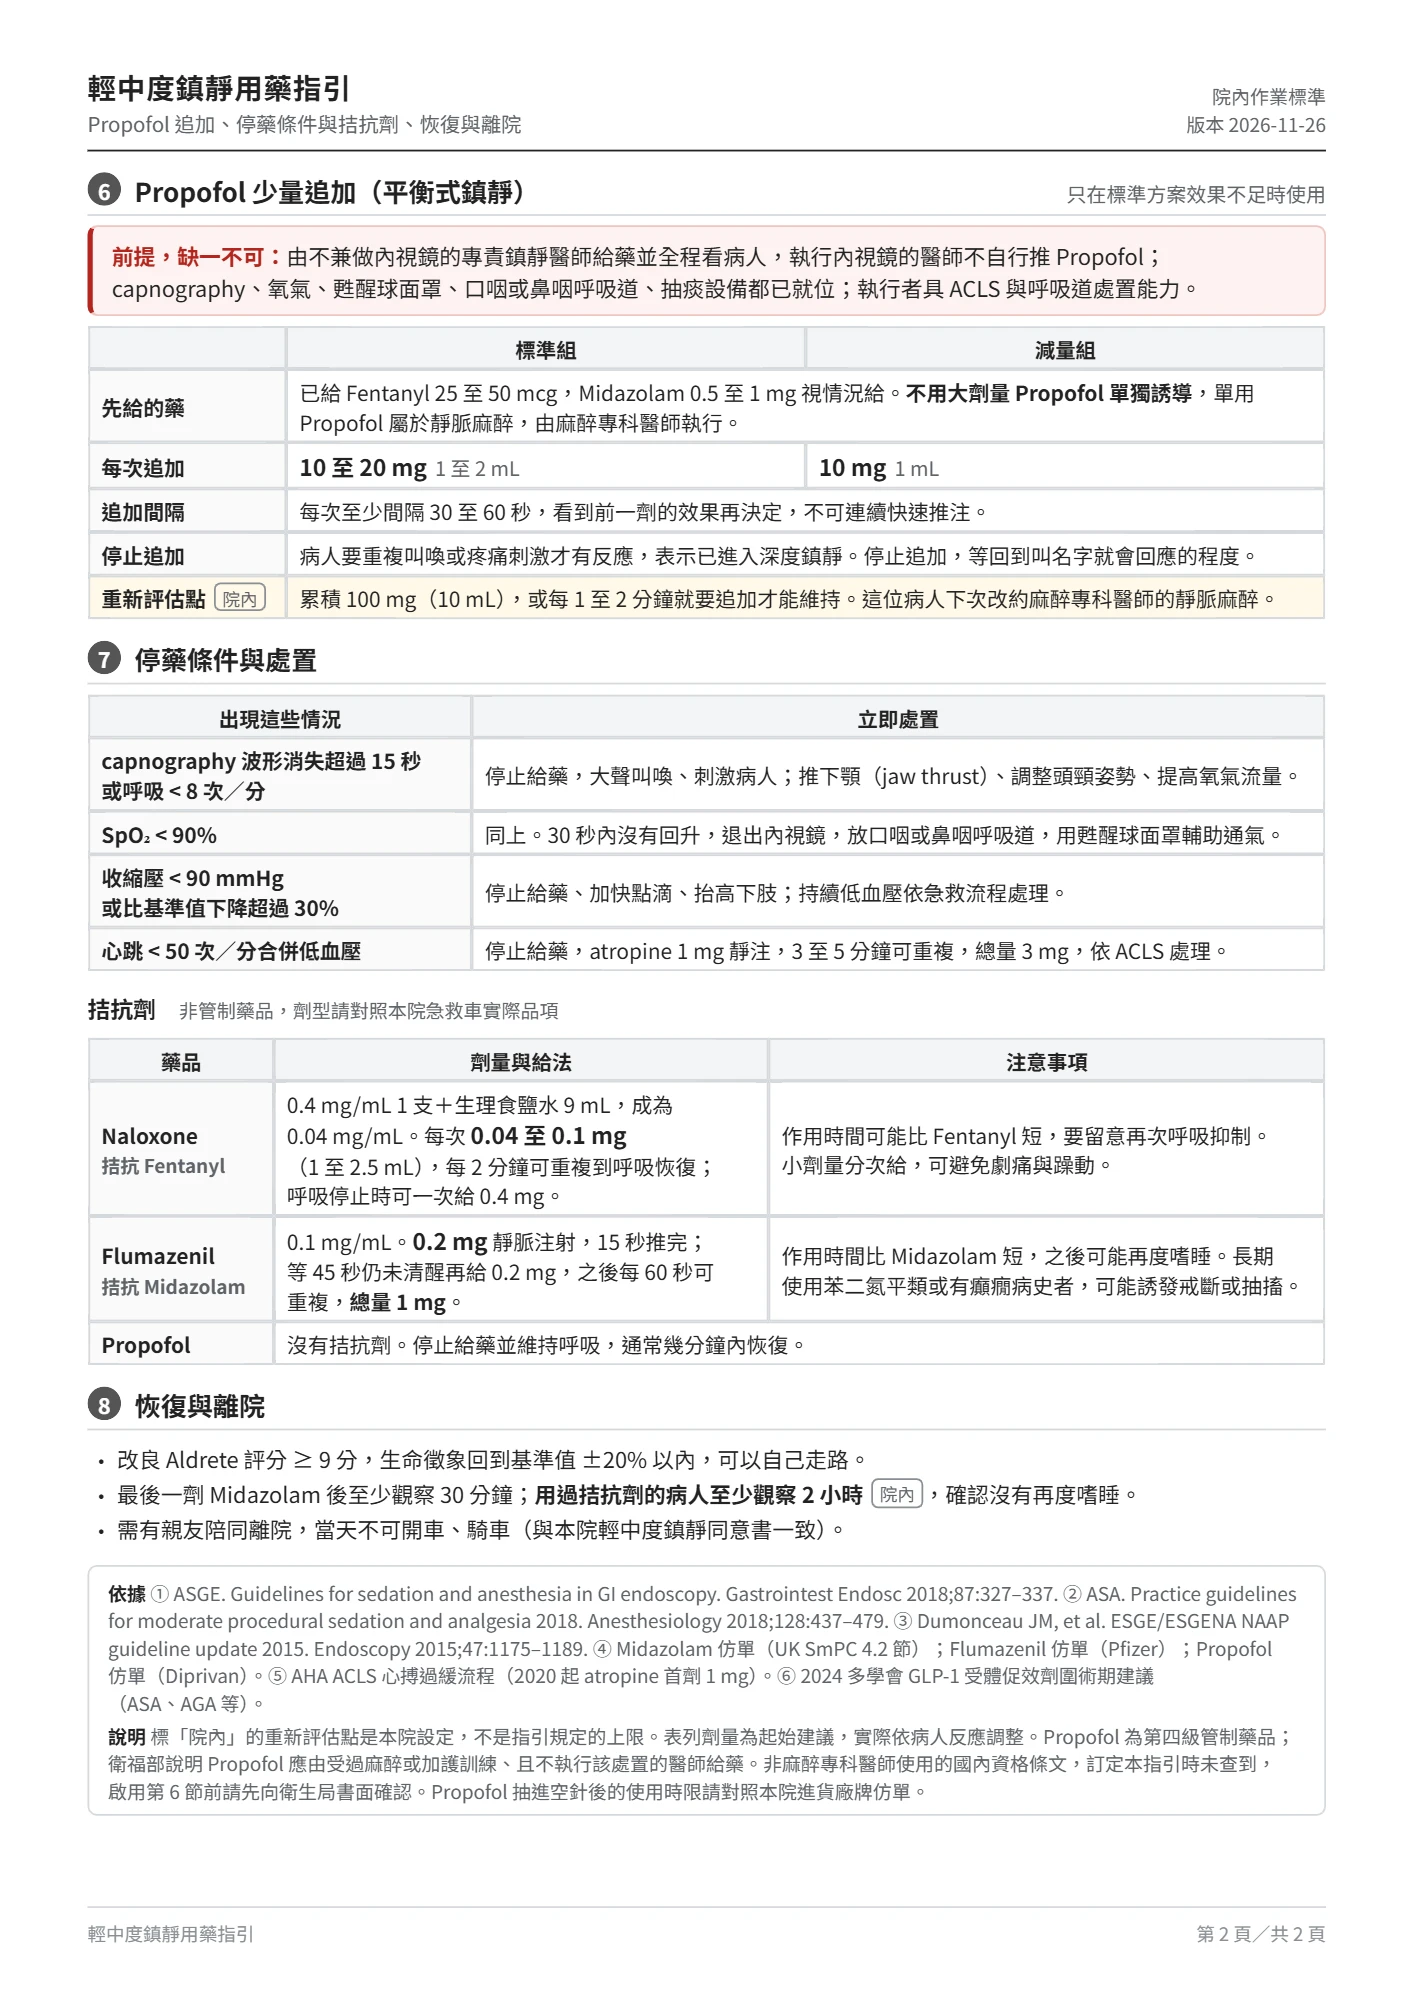
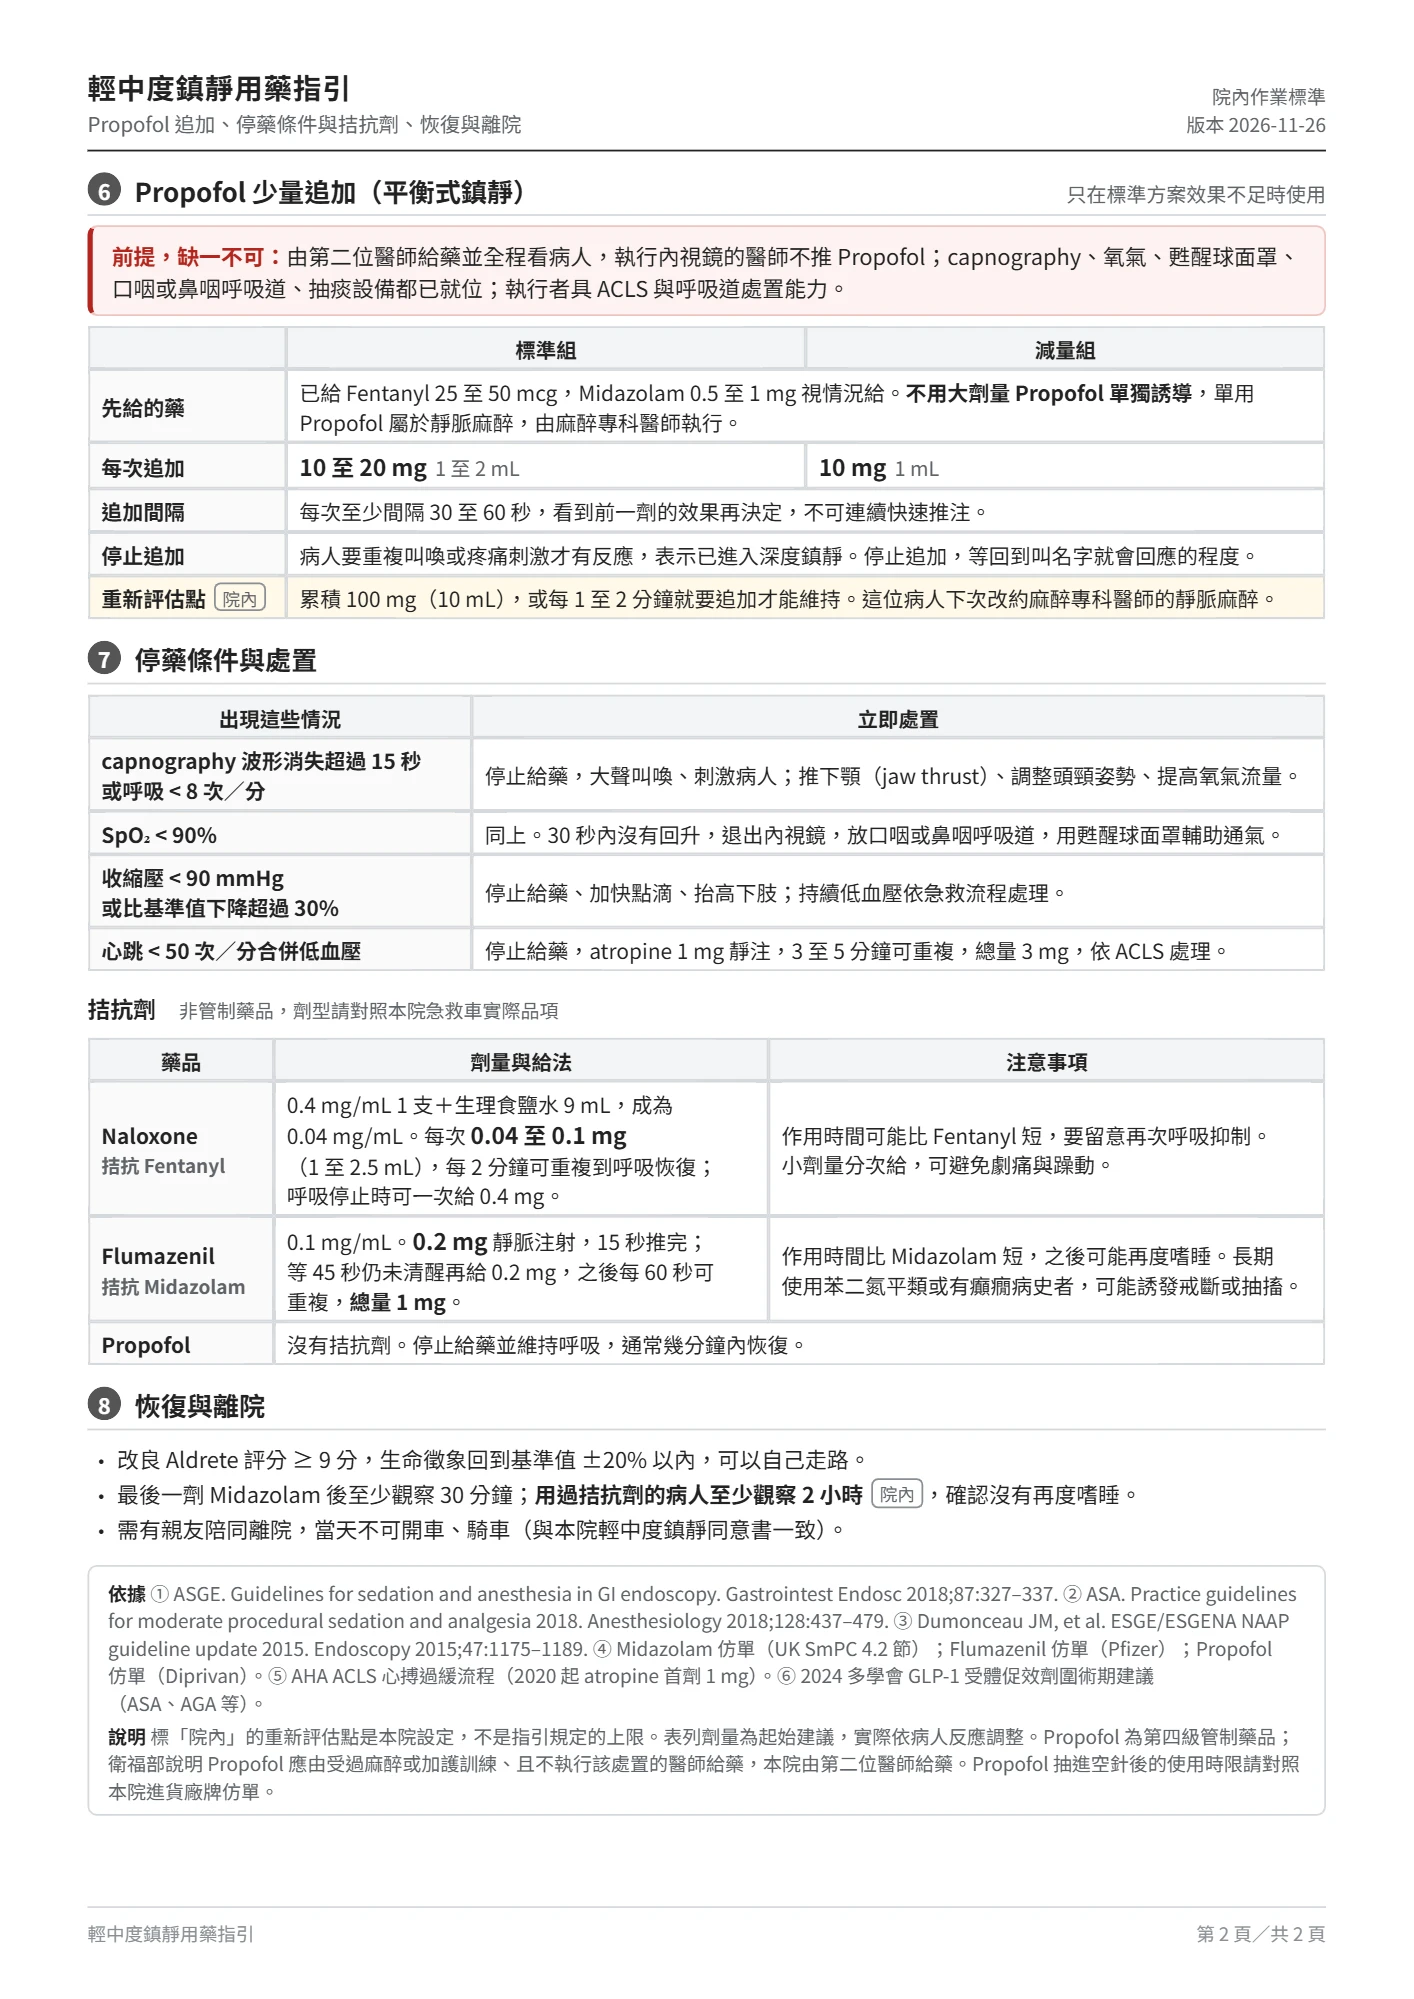
鎮靜指引與同意書：Propofol 由第二位醫師給藥，恢復觀察 30 分鐘
- 指引第 6 節改為由第二位醫師給藥，執行內視鏡的醫師不推 Propofol
- 同意書恢復時間改為至少觀察 30 分鐘，與指引一致

Changed region(s): [[0.0934, 0.1241, 0.9024, 0.1551], [0.3734, 0.8684, 0.9024, 0.8994], [0.0934, 0.8684, 0.2801, 0.8994]]

diff --git a/guide-src/sedation-guide.html b/guide-src/sedation-guide.html
@@ -199,7 +199,7 @@ ul.dots{padding-left:4.4mm;} ul.dots li{margin:.3mm 0;}
 
   <h2><i>6</i>Propofol 少量追加（平衡式鎮靜）<small>只在標準方案效果不足時使用</small></h2>
   <div class="box warn">
-    <span class="warn-t">前提，缺一不可：</span>由不兼做內視鏡的專責鎮靜醫師給藥並全程看病人，執行內視鏡的醫師不自行推 Propofol；capnography、氧氣、甦醒球面罩、口咽或鼻咽呼吸道、<span class="nw">抽痰設備</span>都已就位；執行者具 ACLS 與呼吸道處置能力。
+    <span class="warn-t">前提，缺一不可：</span>由第二位醫師給藥並全程看病人，執行內視鏡的醫師不推 Propofol；capnography、氧氣、甦醒球面罩、口咽或鼻咽呼吸道、<span class="nw">抽痰設備</span>都已就位；執行者具 ACLS 與呼吸道處置能力。
   </div>
   <table>
     <thead><tr><th style="width:16%"></th><th style="width:42%">標準組</th><th style="width:42%">減量組</th></tr></thead>
@@ -257,7 +257,7 @@ ul.dots{padding-left:4.4mm;} ul.dots li{margin:.3mm 0;}
       ③ Dumonceau JM, et al. ESGE/ESGENA NAAP guideline update 2015. Endoscopy 2015;47:1175–1189.
       ④ Midazolam 仿單（UK SmPC 4.2 節）；Flumazenil 仿單（Pfizer）；Propofol 仿單（Diprivan）。⑤ AHA ACLS 心搏過緩流程（2020 起 atropine 首劑 1 mg）。⑥ 2024 多學會 GLP-1 受體促效劑圍術期建議<span class="nw">（ASA、AGA 等）</span>。</p>
     <p class="note" style="margin-top:.8mm"><span class="k" style="color:var(--ink)">說明</span>
-      標「院內」的重新評估點是本院設定，不是指引規定的上限。表列劑量為起始建議，實際依病人反應調整。Propofol 為第四級管制藥品；衛福部說明 Propofol 應由受過麻醉或加護訓練、且不執行該處置的醫師給藥。非麻醉專科醫師使用的國內資格條文，訂定本指引時未查到，啟用第 6 節前請先向衛生局書面確認。Propofol 抽進空針後的使用時限請對照本院進貨廠牌仿單。</p>
+      標「院內」的重新評估點是本院設定，不是指引規定的上限。表列劑量為起始建議，實際依病人反應調整。Propofol 為第四級管制藥品；衛福部說明 Propofol 應由受過麻醉或加護訓練、且不執行該處置的醫師給藥，本院由第二位醫師給藥。Propofol 抽進空針後的使用時限請對照本院進貨廠牌仿單。</p>
   </div>
 
   <footer class="foot"><span>輕中度鎮靜用藥指引</span><span>第 2 頁／共 2 頁</span></footer>

diff --git a/consent-src/pages.html b/consent-src/pages.html
@@ -359,7 +359,7 @@
     <tr><th>主要藥物</th><td>midazolam（苯二氮平類）</td><td>propofol（丙泊酚）</td></tr>
     <tr><th>意識程度</th><td>輕至中度鎮靜，呼喚或輕拍即可回應</td><td>深度鎮靜，不易喚醒，通常沒有記憶</td></tr>
     <tr><th>生效時間</th><td>2 至 5 分鐘</td><td>約 1 分鐘</td></tr>
-    <tr><th>恢復時間</th><td>5 至 10 分鐘</td><td>約 5 分鐘</td></tr>
+    <tr><th>恢復時間</th><td>至少觀察 30 分鐘</td><td>約 5 分鐘</td></tr>
     <tr><th>拮抗藥物</th><td>flumazenil（可逆轉）</td><td>無拮抗劑（自然代謝）</td></tr>
     <tr><th>呼吸抑制風險</th><td>較低</td><td>較高，需全程監測呼吸</td></tr>
     <tr><th>舒適度</th><td>中度，可能有輕微感覺</td><td>高，過程通常沒有感覺</td></tr>

diff --git a/consent-src/p-sedation.html b/consent-src/p-sedation.html
@@ -21,7 +21,7 @@
     <tr><th>主要藥物</th><td>midazolam（苯二氮平類）</td><td>propofol（丙泊酚）</td></tr>
     <tr><th>意識程度</th><td>輕至中度鎮靜，呼喚或輕拍即可回應</td><td>深度鎮靜，不易喚醒，通常沒有記憶</td></tr>
     <tr><th>生效時間</th><td>2 至 5 分鐘</td><td>約 1 分鐘</td></tr>
-    <tr><th>恢復時間</th><td>5 至 10 分鐘</td><td>約 5 分鐘</td></tr>
+    <tr><th>恢復時間</th><td>至少觀察 30 分鐘</td><td>約 5 分鐘</td></tr>
     <tr><th>拮抗藥物</th><td>flumazenil（可逆轉）</td><td>無拮抗劑（自然代謝）</td></tr>
     <tr><th>呼吸抑制風險</th><td>較低</td><td>較高，需全程監測呼吸</td></tr>
     <tr><th>舒適度</th><td>中度，可能有輕微感覺</td><td>高，過程通常沒有感覺</td></tr>

diff --git a/revision.js b/revision.js
@@ -14,5 +14,6 @@ const REVISION = {
 const REVISION_NOTE = [
   "列印表單：管藥與麻醉的「輕中度鎮靜用藥指引」改名「鎮靜指引」",
   "內容依仿單與 ASA、ASGE 指引查核：Flumazenil 給法、Propofol 抽進空針後 6 小時、GLP-1 藥物給藥前確認，院內加嚴處標「院內」",
-  "排版調整：監測與紀錄移回第 1 頁，數值與詞語不斷行"
+  "Propofol 由第二位醫師給藥，執行內視鏡的醫師不推；排版調整，數值與詞語不斷行",
+  "輕中度鎮靜同意書：恢復時間改為至少觀察 30 分鐘，與指引一致"
 ];

diff --git a/sw.js b/sw.js
@@ -9,7 +9,7 @@
    工作台開啟後會把所有衛教與表單圖片預先存下，斷網時也能顯示與列印。
    網路很慢（伺服器 3 秒內沒回應，圖片 6 秒）時先用快取開啟，背景照樣把新版存下，下次開啟就是新版；
    以前會一直等到連線逾時，網路卡住時整個工作台白畫面。 */
-const CACHE = 'tools-v127';
+const CACHE = 'tools-v129';
 const CORE = [
   './', 'index.html',
   'mount.js', 'revision.js',
